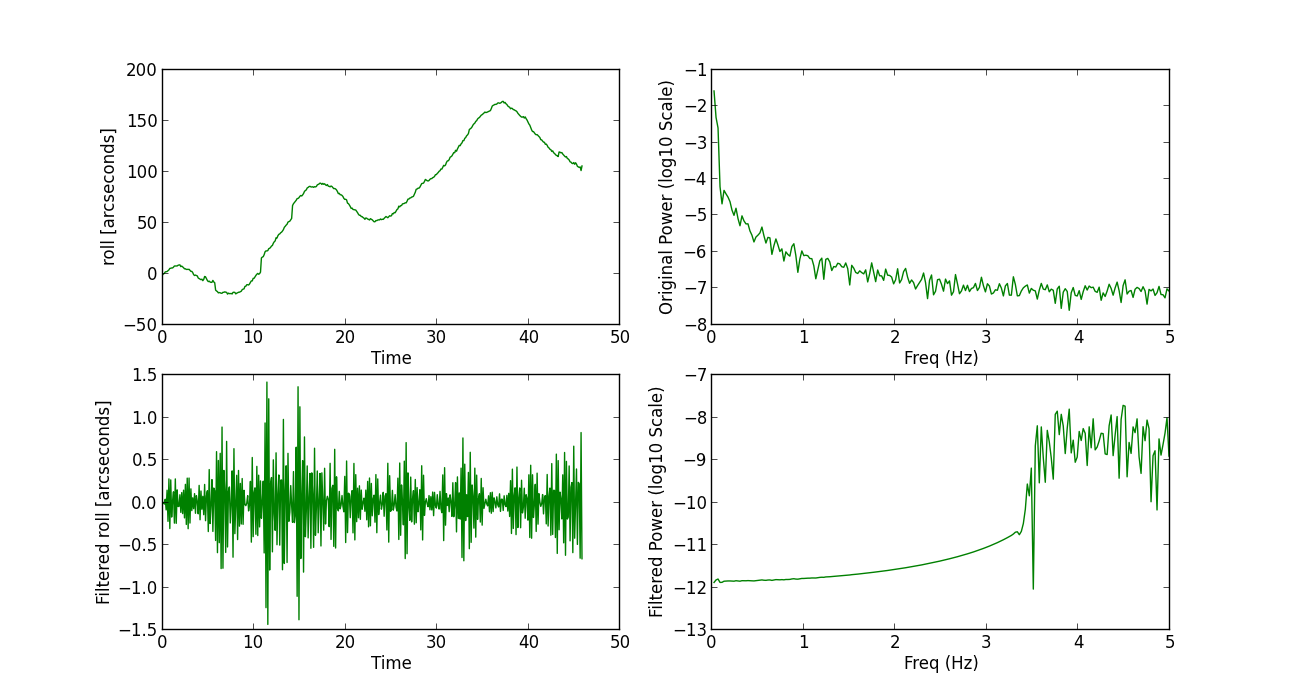
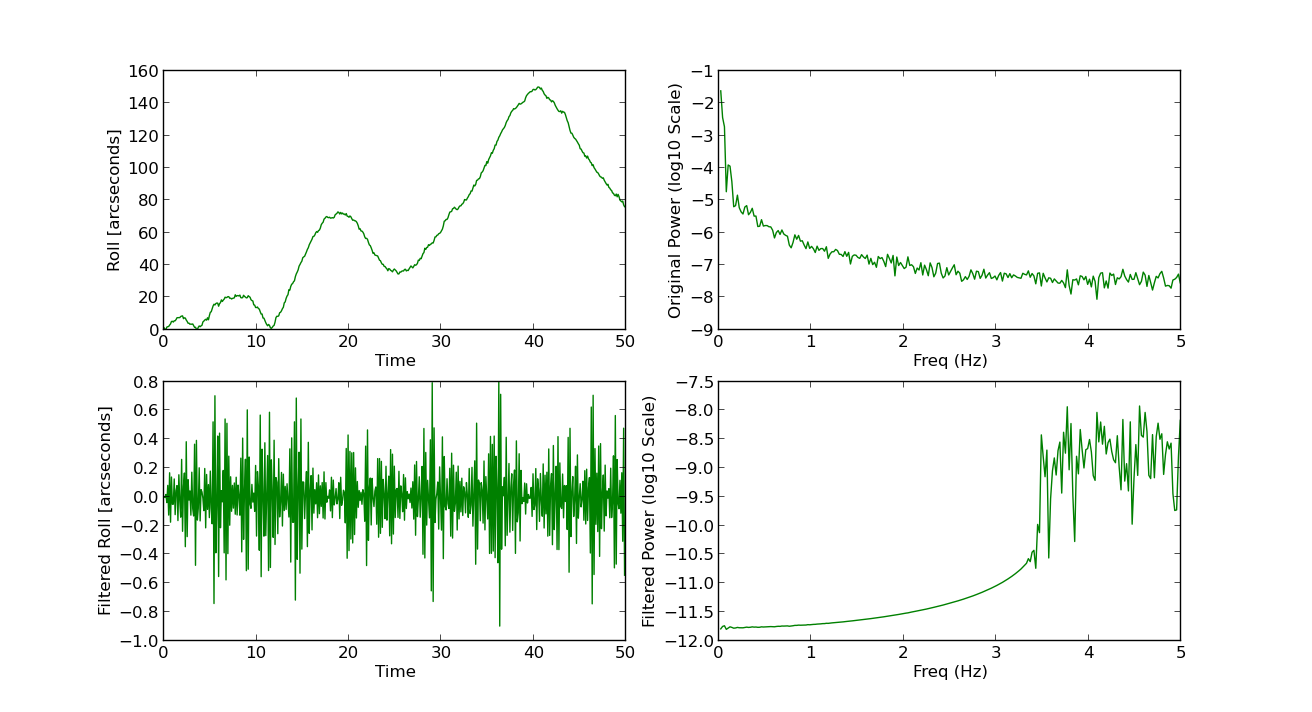
fixed paper stuff and added new data

diff --git a/IEEE/IEEE_paper.tex b/IEEE/IEEE_paper.tex
@@ -85,7 +85,7 @@
 
 %-------------------------------------------------------------------------------------------------------
 \section{Introduction}
-NASA's Scientific Balloon Program flies large payloads (up to 8000 lb) each and every year. These missions can last anywhere from a few hours to several weeks, and offer scientific research at $120,000$ ft, above $99.5\%$ of the Earth's atmosphere \cite{young2012}. This is especially advantageous for telescopic observing, providing conditions almost entirely devoid of image degradation due to atmospheric turbulence. The development of a balloon platform that can image in visible wavelengths with $0.1''$ resolution is of widespread importance. Ground-based system such as Subaru often look only in infrared wavelengths longer than $1 \mu$m due to the unacceptable quality of visible images. Short of expensive orbital telescopes such as the Hubble Space Telescope (HST), balloon-borne systems are the only way to achieve diffraction limited performance in the visible regime. An inexpensive, 1-m telescope in the stratosphere will rival the performance of HST and outperform every ground-based telescope every night of
+NASA's Scientific Balloon Program flies large payloads (up to 8000 lb) each and every year. These missions can last anywhere from a few hours to several weeks, and offer scientific research at altitudes upwards of $120,000$ ft, above $99.5\%$ of the Earth's distorting atmosphere \cite{young2012}. This is especially advantageous for telescopic observing, providing conditions almost entirely devoid of image degradation due to atmospheric turbulence. The development of a balloon platform that can image in visible wavelengths with $0.1''$ resolution is of widespread importance. Ground-based system such as Subaru often look only in infrared wavelengths longer than $1 \mu$m due to the unacceptable quality of visible images. Short of expensive orbital telescopes such as the Hubble Space Telescope (HST), balloon-borne systems are the only way to achieve diffraction limited performance in the visible regime. An inexpensive, 1-m telescope in the stratosphere will rival the performance of HST and outperform every ground-based telescope every night of
 the year \cite{young2012}.
 
 The potential for stratospheric 1 meter and 2 meter telescopes to operate at their diffraction limits can only be realized with pointing and tracking systems of comparable performance. The goal of the DayStar project is to improve tracking (attitude determination) on balloon platforms to levels capable of supporting these systems.
@@ -221,14 +221,15 @@ As stated in the introduction, DayStar's goal is to see stars during the daytime
 \end{figure}
 In addition to its red performance, the other advantages of the sCMOS sensor include its very low read noise and dark current, as well as a high pixel count (5.5 megapixels). The noise characteristics are less important for daytime, since background scattering dominates performance. However, at night, the lack of noise helps yield very crisp, high quality images. It should be noted that for this test flight, DayStar had power issues that generated excess read noise, resulting in grainy nighttime photos. Future improvements to the power system will be necessary to optimize performance.
 
-The other advantage of the camera is that it contains many pixels, which helps spread out background light during daytime. The size of the pixels, 6.5$\mu$m, is also advantageous; combined with a long focal length, small pixels improve plate scale, which measures the number of arcseconds subtended by each pixel. The optical system for the test flight was an Olympus lens with a 150mm focal length. Modeling in the previous section takes into account these values in predicting system accuracy.
+The other advantage of the camera is that it contains many pixels, which helps spread out background light during daytime. The size of the pixels, 6.5$\mu$m, is also advantageous; combined with a long focal length, small pixels improve plate scale, which measures the number of arcseconds subtended by each pixel. The optical system for the test flight was an Olympus lens with a 150mm focal length.
+
 \begin{figure}[H]
     \centering
     \includegraphics[width=3 in]{\rootdir olympus.jpg}
     \caption{An Olympus 150mm, f2.0 camera lens was used for DayStar's test flight \protect\cite{olympus}.}
     \label{fig:olympus}
 \end{figure}
-The rest of the DayStar system is comprised of a baffle for the lens, a computer and a PCB for power distribution. The computer is a standard off-the-shelf motherboard with an Intel i3 processor. It consumes about 40W at 3.3V, 5V and 12V, which is all supplied by the power board, seen in Figure \ref{fig:power}. The power board also supports the camera, which requires seven power lines between -0.4V and 3.3V. In the flight configuration, all power is converted from a 15V lithium sulfur-dioxide battery, though DayStar may also run off a benchtop supply.
+The rest of the DayStar system is comprised of an exterior light baffle, a computer, and a PCB for power distribution. The computer is a standard off-the-shelf motherboard with an Intel i3 processor. It consumes about 40W at 3.3V, 5V and 12V, which is all supplied by the power board, seen in Figure \ref{fig:power}. The power board also supports the camera, which requires seven power lines between -0.4V and 3.3V. In the flight configuration, all power is converted from a 15V lithium sulfur-dioxide battery, though DayStar may also run off a benchtop supply.
 \begin{figure}[H]
     \includegraphics[width=3.3in]{\rootdir eps.jpg}
     \caption{The power board converts voltages for the entire payload.}
@@ -237,7 +238,7 @@ The rest of the DayStar system is comprised of a baffle for the lens, a computer
 
 %-------------------------------------------------------------------------------------------------------
 \subsection{Flight and Concept of Operations}
-On September 22nd, 2012 the DayStar system flew aboard the Wallops Arc Second Pointer (WASP) platform as a secondary payload, as shown in Figure \ref{fig:flight}. DayStar was mounted on the aft of the WASP platform such that when the WASP payload was under pointing control, DayStar was pointed near perpendicular to the sun and its field of view was centered 45 degrees above horizontal. The launch was conducted in Fort Sumner, NM as part of the CSBF 2012 campaign. The entire flight lasted about 15 hours starting at 8:30 am. DayStar actively operated for 5.5 hours, beginning operation 2.5 hours before astronomical sunset at 35km altitude and ending around 17:30 mountain standard time.
+On September 22nd, 2012 the DayStar system flew aboard the Wallops Arc Second Pointer (WASP) platform as a secondary payload, as shown in Figure \ref{fig:flight}. DayStar was mounted on the aft of the WASP platform such that when the WASP payload was under pointing control, DayStar was pointed near perpendicular to the sun and its field of view was centered 45 degrees above horizontal. DayStar's azimuth was controlled to an accuracy of 1 degree by a coarse flight train correcting motor. The launch was conducted in Fort Sumner, NM as part of the CSBF 2012 campaign. The entire flight lasted about 15 hours starting at 8:30 am. DayStar actively operated for 5.5 hours, beginning operation 2.5 hours before astronomical sunset at 35km altitude and ending around 17:30 mountain standard time.
 \begin{figure}
     \centering
     \includegraphics[width = 3.3in]{\rootdir daystar_flight.jpg}
@@ -339,41 +340,39 @@ The angles were then transformed into the frequency domain, using Fast Fourier t
     \includegraphics[height=3.1in]{\rootdir YawTracking.png}
     \includegraphics[height=3.1in]{\rootdir PitchTracking.png}
     \includegraphics[height=3.1in]{\rootdir RollTracking.png}
-    \caption{Yaw, pitch, and roll signal and filtering using FFT.}
+    \caption{The yaw, pitch, and roll error signals are isolated using an FFT and a high-pass elliptical filter at 3.5 Hz.}
     \label{fig:Filtering}
 \end{figure*}
 
 \twocolumn
 \subsection{Nighttime Results}
-Figure \ref{fig:Filtering} shows plots illustrating the filtering process for each Euler angle for a batch of nighttime images. Time-domain signals are on the leftmost subplots, and frequency-domain power spectrum plots are on the rightmost subplots, with original signals on top and filtered signals on the bottom.
+Figure \ref{fig:Filtering} shows plots illustrating the filtering process for each Euler angle in a yaw-pitch-roll sequence for a set of 500 nighttime images taken over 50 seconds. Time-domain signals are on the leftmost subplots, and frequency-domain power spectrum plots are on the rightmost subplots, with original signals on top and filtered signals on the bottom.
 
-It is apparent that majority of the low frequency motion is found below 2 hz. Assuming that this motion is primarily due to the dynamics of the balloon and payload, an elliptical highpass filter is implemented at 3.5 hz to isolate the high frequency oscillations. Motion above 3.5 Hz is assumed to represent the performance of the DayStar system and its algorithms alone.
-
-The motion of the balloon gondola is clearly visible in the yaw, pitch, and roll plots. Throughout the 50 second burst, the gondola appears to have undergone 3 cycles mainly consisting of yaw.
+The motion of the balloon gondola is clearly visible in the yaw, pitch, and roll plots. Throughout the 50 second burst, the gondola appears to have undergone 3 cycles mainly consisting of yaw. From the power spectrum plots, it is apparent that majority of the low frequency motion is found below 2 Hz. Assuming that this motion is primarily due to the dynamics of the balloon and gondola, an elliptical high-pass filter is implemented at 3.5 Hz to isolate the high frequency oscillations. Motion above 3.5 Hz is assumed to represent the performance of the DayStar system and its algorithms alone.
 
 The standard deviation of the of the filtered yaw, pitch, and roll for this 500 image burst is:
 
 \begin{align*}
-    \sigma_{Yaw} = 7.825 \ arcseconds \\
-    \sigma_{Pitch} = 0.319 \ arcseconds \\
-    \sigma_{Roll} = 0.361 \ arcseconds
+    \sigma_{Yaw} = 5.506 \ arcseconds \\
+    \sigma_{Pitch} = 0.225 \ arcseconds \\
+    \sigma_{Roll} = 0.262 \ arcseconds
 \end{align*}
 
-These results can be misleading because the standard deviation of the pitch, roll, and yaw varied over time. A plot of the filtered results and a 10 datapoint rolling $3\sigma$ standard deviation is shown in Figure \ref{fig:RollingSTD}.
+These results can be misleading because the standard deviation of the pitch, roll, and yaw vary over time. A plot of the filtered results enveloped by a 10-datapoint rolling $3\sigma$ standard deviation is shown in Figure \ref{fig:RollingSTD}.
 
 \begin{figure}[H]
     \centering
     \includegraphics[width=3.5in]{\rootdir YawMotion.png}
-    \caption{Average yaw standard deviation varies over time.}
+    \caption{The average yaw standard deviation varies over time.}
     \label{fig:RollingSTD}
 \end{figure}
 
-The standard deviation of the yaw was as low as ~2 arcseconds during some portions of this burst. Periods of worst performance occur when the gondola changes direction most drastically. This coarse yaw control was provided by a 1 degree yaw corrector on the balloon flight string. It is possible that high frequency noise from this motor is the reason for inflation of the standard deviation of the yaw, pitch, and roll over time.
+The standard deviation of the yaw was as low as ~2 arcseconds during some portions of this dataset. Periods of worst performance occur when the gondola changes direction most drastically. This coarse yaw control was provided by a 1 degree yaw corrector on the balloon flight string. It is possible that high frequency noise from this motor caused apparent inflation of the yaw, pitch, and roll performance while applying azimuthal corrections to the gondola.
 
 %-------------------------------------------------------------------------------------------------------
 \subsection{Daytime Results}
 
-Unlike the nighttime images, daytime images were heavily affected by high sky background levels. This caused the high-gain images to saturate, so only the low-gain images were usable. These images displayed much more column bias than their high-gain counterparts, degrading the signal-to-noise of stars in the daytime images. In addition, since the imaging system on DayStar had no cooling, the image sensor operated at around 10C. The sensor is very sensitive to temperature changes, and operates best at -40C. A 10 degree increase in sensor temperature typically equates to doubling the dark current and hot pixels in each image \cite{AndorTemp}.
+Unlike the nighttime images, daytime images were heavily affected by high sky background levels. This caused the high-gain images to saturate, so only the low-gain images were usable. These images display much more column bias than their high-gain counterparts, degrading the signal-to-noise of stars in the daytime images. In addition, since the imaging system on DayStar had no cooling, the image sensor operated at around 10C during the daytime. The sensor is very sensitive to temperature changes, and operates best at -40C. A 10 degree increase in sensor temperature typically equates to doubling the dark current and hot pixels in each image \cite{AndorTemp}.
 
 \begin{figure}[H]
     \centering
@@ -408,13 +407,13 @@ The fact that DayStar was able to see stars in high ambient light conditions pro
 \section{Conclusions}
 Through modeling, testing, and analysis, the DayStar team has shown that its design of a diurnal star tracker is valid. As a prototype unit on a test flight, DayStar was able to observe and centroid stars in daytime conditions, and provide accurate solutions during nighttime.
 
-DayStar's main goal at this point is to operate on another test flight within a year's time. As it was a prototype unit, conceived and built on a short schedule, several design shortcomings were identified for this flight. One main design issue was that the power system was contained in a single unit, far from the camera. The imaging system has stringent power requirements to operate ideally, and the power subsystem did not meet those requirements. An imaging board with more power planes, better attention paid to power isolation, and all power regulation done on chip will provide cleaner images. These in turn will yield more accurate centroids, and more identifiable stars during daytime.
+DayStar's main goal at this point is to operate on another test flight within a year's time. As it was a prototype unit, conceived and built on a short schedule, several shortcomings were identified in the design and evidenced in the flight results. One issue was that the power system was contained in a single unit, far from the camera. The imaging system must be supplied stringent power requirements to operate ideally, and the power subsystem did not meet those requirements. An imaging board with more power planes and better isolation will provide cleaner images. These, in turn, will yield more accurate centroids, and more identifiable stars during daytime.
 
 Another design change would be to add active thermal regulation to key components, specifically the CMOS image sensor. In flight, the imaging system temperature stayed around 10 degrees Celsius, which is 50 degrees above the intended operating temperature. Dark currents and hot pixels increase with temperature, and active cooling down to the sensor's optimal temperature range will help provide cleaner images for analysis.
 
-Finally, the operation plan used for flight requires modifications. The imaging system has two gain settings: high and low. In night tests, the high gain settings were observed to be much cleaner than low, and stars were easier to identify from the background. Ideally, the images would be exposed for the high gain settings. In daytime, exposures were such that the high gain images were fully saturated. Only for a few exposure times were stars identifiable using the low gain images. By adjusting exposure times to ensure that the high gain images are correctly exposed for, improved star identification and tracking performance is expected.
+Finally, the operation plan used for flight requires modifications. The imaging system has two gain settings: high and low. In night tests, the high gain settings were observed to be much cleaner than low, and stars were easier to identify from the background. Ideally, the images would be exposed for the high gain settings. In daytime, exposures were such that the high gain images were fully saturated. By adjusting exposure times to ensure that the high gain images are correctly exposed, improved star identification and tracking performance is expected.
 
-DayStar expects that with the design and operations changes implemented, future balloon flights will yield better performance in operation and star identification. Both the accuracy in tracking fields and the number of stars observed in daytime and nighttime conditions will go up, further validating DayStar's capability as a diurnal star tracker.
+The DayStar team predicts that by addressing the issues discussed, future balloon flights will yield better performance, further validating DayStar's capability as a diurnal star tracker, and will eventually render DayStar a viable option for balloon payloads requiring accurate daytime attitude knowledge.
 
 %-------------------------------------------------------------------------------------------------------
 \bibliographystyle{IEEEtran}
